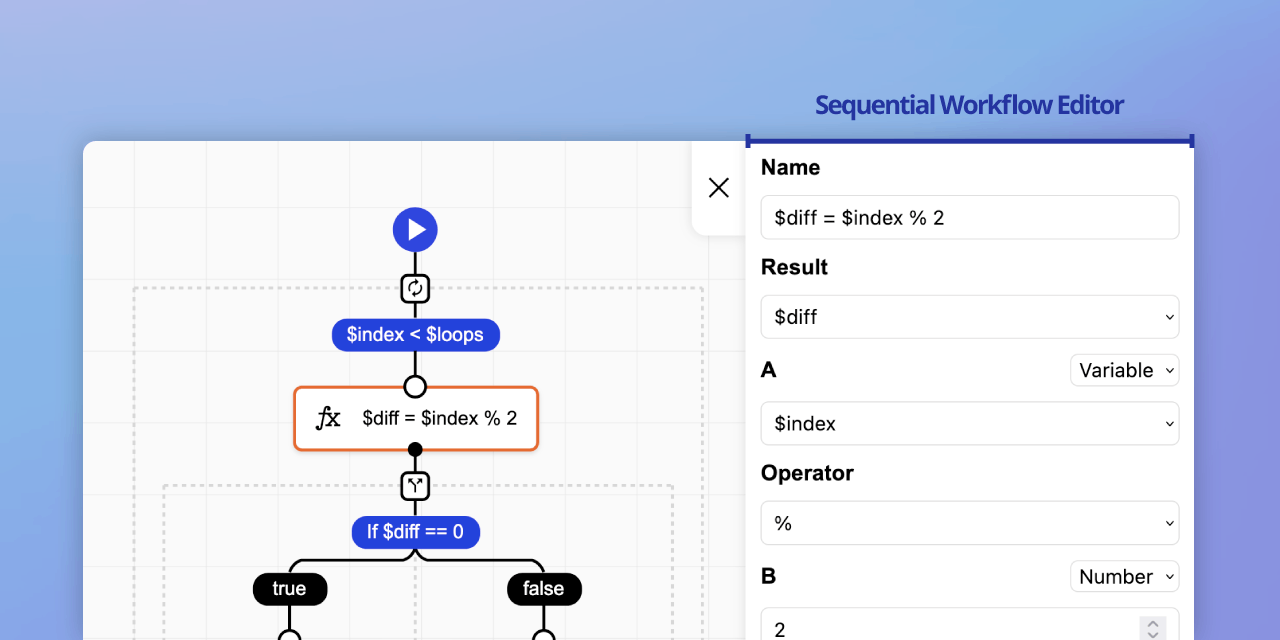
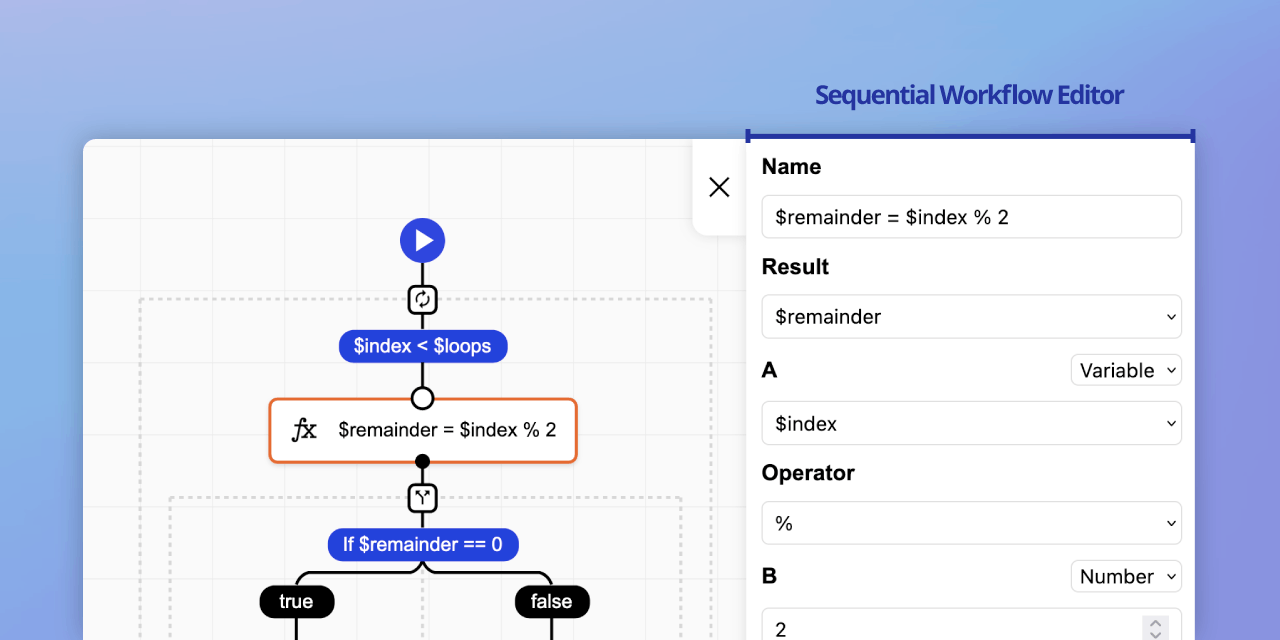
0.2.0. (#4)

diff --git a/model/src/value-models/dynamic/dynamic-value-model.ts b/model/src/value-models/dynamic/dynamic-value-model.ts
@@ -4,12 +4,12 @@ import { Dynamic } from '../../types';
 import { ValueModelContext } from '../../context';
 import { ModelActivator } from '../../activator';
 
-export interface DynamicValueModelConfiguration<TChoices extends ValueModelFactory[]> {
-	choices: TChoices;
+export interface DynamicValueModelConfiguration<TSubModels extends ValueModelFactory[]> {
+	models: TSubModels;
 }
 
-export type DynamicValueModel<TModels extends ValueModelFactory[] = ValueModelFactory[]> = ValueModel<
-	Dynamic<TValueOf<TModels>>,
+export type DynamicValueModel<TSubModels extends ValueModelFactory[] = ValueModelFactory[]> = ValueModel<
+	Dynamic<TValueOf<TSubModels>>,
 	DynamicValueModelConfiguration<ValueModelFactory[]>
 >;
 
@@ -23,21 +23,22 @@ export const dynamicValueModelId = 'dynamic';
 export function dynamicValueModel<TValueModelFactory extends ValueModelFactory[]>(
 	configuration: DynamicValueModelConfiguration<TValueModelFactory>
 ): ValueModelFactory<DynamicValueModel<TValueModelFactory>> {
-	if (configuration.choices.length < 1) {
+	if (configuration.models.length < 1) {
 		throw new Error('Dynamic value model must have at least one choice');
 	}
 
 	return (path: Path) => {
 		const valuePath = path.add('value');
-		const childModels = configuration.choices.map(modelFactory => modelFactory(valuePath));
+		const subModels = configuration.models.map(modelFactory => modelFactory(valuePath));
 
 		return {
 			id: dynamicValueModelId,
+			label: 'Dynamic value',
 			path,
 			configuration,
-			childModels,
+			subModels,
 			getDefaultValue(activator: ModelActivator): Dynamic<TValueOf<TValueModelFactory>> {
-				const model = childModels[0];
+				const model = subModels[0];
 				return {
 					modelId: model.id,
 					value: model.getDefaultValue(activator) as TValueOf<TValueModelFactory>
@@ -46,7 +47,7 @@ export function dynamicValueModel<TValueModelFactory extends ValueModelFactory[]
 			getVariableDefinitions: () => null,
 			validate(context: ValueModelContext<DynamicValueModel<TValueModelFactory>>): ValidationResult {
 				const value = context.getValue();
-				const model = childModels.find(m => m.id === value.modelId);
+				const model = subModels.find(m => m.id === value.modelId);
 				if (!model) {
 					throw new Error(`Cannot find model id: ${value.modelId}`);
 				}

diff --git a/editor/src/value-editors/dynamic/dynamic-value-editor.ts b/editor/src/value-editors/dynamic/dynamic-value-editor.ts
@@ -10,10 +10,10 @@ export function dynamicValueEditor(
 	context: ValueModelContext<DynamicValueModel>,
 	services: EditorServices
 ): ValueEditor<DynamicValueModel> {
-	if (!context.model.childModels) {
-		throw new Error('childModels is required');
+	if (!context.model.subModels) {
+		throw new Error('subModels is required');
 	}
-	const childModels = context.model.childModels;
+	const subModels = context.model.subModels;
 
 	function validate() {
 		if (editor) {
@@ -27,7 +27,7 @@ export function dynamicValueEditor(
 		}
 
 		const value = context.getValue();
-		const model = childModels.find(model => model.id === value.modelId);
+		const model = subModels.find(model => model.id === value.modelId);
 		if (!model || !model.id) {
 			throw new Error(`Model not found: ${value.modelId}`);
 		}
@@ -40,7 +40,7 @@ export function dynamicValueEditor(
 	}
 
 	function onTypeChanged() {
-		const newModel = childModels[childModelSelect.getSelectedIndex()];
+		const newModel = subModels[subModelSelect.getSelectedIndex()];
 		const defaultValue = {
 			modelId: newModel.id,
 			value: newModel.getDefaultValue(services.activator)
@@ -50,12 +50,12 @@ export function dynamicValueEditor(
 	}
 
 	const startValue = context.getValue();
-	const childModelSelect = selectComponent({
+	const subModelSelect = selectComponent({
 		size: 'small'
 	});
-	childModelSelect.setValues(context.model.childModels.map(model => model.id));
-	childModelSelect.selectIndex(context.model.childModels.findIndex(model => model.id === startValue.modelId));
-	childModelSelect.onSelected.subscribe(onTypeChanged);
+	subModelSelect.setValues(context.model.subModels.map(model => model.label));
+	subModelSelect.selectIndex(context.model.subModels.findIndex(model => model.id === startValue.modelId));
+	subModelSelect.onSelected.subscribe(onTypeChanged);
 
 	const placeholder = Html.element('div', {
 		class: 'swe-dynamic-placeholder'
@@ -67,7 +67,7 @@ export function dynamicValueEditor(
 
 	return {
 		view: container.view,
-		controlView: childModelSelect.view,
+		controlView: subModelSelect.view,
 		validate
 	};
 }

diff --git a/demos/webpack-app/src/playground/default-state.ts b/demos/webpack-app/src/playground/default-state.ts
@@ -11,7 +11,7 @@ const definition: MyDefinition = {
 	sequence: [
 		{
 			id: 'a282bc1908816678905a3c94049478aa',
-			name: 'index < loops',
+			name: '$index < $loops',
 			type: 'loop',
 			componentType: 'container',
 			properties: {
@@ -20,28 +20,28 @@ const definition: MyDefinition = {
 				to: { modelId: 'nullableVariable', value: { name: 'loops' } },
 				increment: { modelId: 'number', value: 1 },
 				indexVariable: { name: 'index', type: 'number' },
-				variables: { variables: [{ name: 'diff', type: 'number' }] }
+				variables: { variables: [{ name: 'remainder', type: 'number' }] }
 			},
 			sequence: [
 				{
 					id: '32529a3fbef39d5e480df8454164edae',
-					name: 'diff = index % 2',
+					name: '$remainder = $index % 2',
 					type: 'calculate',
 					componentType: 'task',
 					properties: {
 						a: { modelId: 'nullableVariable', value: { name: 'index' } },
 						operator: '%',
 						b: { modelId: 'number', value: 2 },
-						result: { name: 'diff' }
+						result: { name: 'remainder' }
 					}
 				},
 				{
 					id: 'f2f35f162f009e7683cf31c24a1e9589',
-					name: 'If diff == 0',
+					name: 'If $remainder == 0',
 					type: 'if',
 					componentType: 'switch',
 					properties: {
-						a: { modelId: 'nullableVariable', value: { name: 'diff' } },
+						a: { modelId: 'nullableVariable', value: { name: 'remainder' } },
 						operator: '=',
 						b: { modelId: 'number', value: 0 }
 					},

diff --git a/editor/src/value-editors/nullable-variable/nullable-variable-value-editor.ts b/editor/src/value-editors/nullable-variable/nullable-variable-value-editor.ts
@@ -4,6 +4,7 @@ import { valueEditorContainerComponent } from '../../components/value-editor-con
 import { validationErrorComponent } from '../../components/validation-error-component';
 import { rowComponent } from '../../components/row-component';
 import { selectComponent } from '../../components/select-component';
+import { formatVariableName } from '../../core/variable-name-formatter';
 
 export const nullableVariableValueEditorId = 'nullableVariable';
 
@@ -31,12 +32,7 @@ export function nullableVariableValueEditor(
 	const select = selectComponent({
 		stretched: true
 	});
-	select.setValues([
-		'- Select variable -',
-		...variables.map(variable => {
-			return variable.name;
-		})
-	]);
+	select.setValues(['- Select variable -', ...variables.map(variable => formatVariableName(variable.name))]);
 	if (startValue) {
 		select.selectIndex(variables.findIndex(variable => variable.name === startValue.name) + 1);
 	} else {

diff --git a/demos/webpack-app/src/playground/model/calculate-step-model.ts b/demos/webpack-app/src/playground/model/calculate-step-model.ts
@@ -23,7 +23,7 @@ export interface CalculateStep extends Step {
 
 export const calculateStepModel = createStepModel<CalculateStep>('calculate', 'task', step => {
 	const val = dynamicValueModel({
-		choices: [
+		models: [
 			numberValueModel({}),
 			nullableVariableValueModel({
 				isRequired: true,
@@ -31,6 +31,13 @@ export const calculateStepModel = createStepModel<CalculateStep>('calculate', 't
 			})
 		]
 	});
+
+	step.property('result').value(
+		nullableVariableValueModel({
+			variableType: ValueKnownType.number,
+			isRequired: true
+		})
+	);
 
 	step.property('a').value(val).label('A');
 
@@ -41,11 +48,4 @@ export const calculateStepModel = createStepModel<CalculateStep>('calculate', 't
 	);
 
 	step.property('b').value(val).label('B');
-
-	step.property('result').value(
-		nullableVariableValueModel({
-			variableType: ValueKnownType.number,
-			isRequired: true
-		})
-	);
 });

diff --git a/editor/src/value-editors/any-variables/any-variable-item-component.ts b/editor/src/value-editors/any-variables/any-variable-item-component.ts
@@ -4,6 +4,7 @@ import { validationErrorComponent } from '../../components/validation-error-comp
 import { Component } from '../../components/component';
 import { buttonComponent } from '../../components/button-component';
 import { rowComponent } from '../../components/row-component';
+import { formatVariableName } from '../../core/variable-name-formatter';
 
 export interface AnyVariableItemComponent extends Component {
 	onDeleteClicked: SimpleEvent<void>;
@@ -20,7 +21,7 @@ export function anyVariableItemComponent(variable: AnyVariable): AnyVariableItem
 	const view = Html.element('div');
 
 	const name = Html.element('span');
-	name.innerText = `${variable.name} (${variable.type})`;
+	name.innerText = `${formatVariableName(variable.name)} (${variable.type})`;
 
 	const deleteButton = buttonComponent('Delete');
 	deleteButton.onClick.subscribe(() => onDeleteClicked.forward());

diff --git a/editor/src/value-editors/any-variables/any-variable-selector-component.ts b/editor/src/value-editors/any-variables/any-variable-selector-component.ts
@@ -10,6 +10,7 @@ import { selectComponent } from '../../components/select-component';
 import { Component } from '../../components/component';
 import { rowComponent } from '../../components/row-component';
 import { buttonComponent } from '../../components/button-component';
+import { formatVariableName } from '../../core/variable-name-formatter';
 
 export interface AnyVariableSelectorComponent extends Component {
 	onAdded: SimpleEvent<AnyVariable>;
@@ -27,7 +28,7 @@ export function anyVariableSelectorComponent(context: ValueModelContext<AnyVaria
 
 	function reloadVariableSelector() {
 		variables = context.getVariables(getSelectedValueType());
-		const variableNames = variables.map(variable => variable.name);
+		const variableNames = variables.map(variable => formatVariableName(variable.name));
 		variableSelect.setValues(['-', ...variableNames]);
 	}
 

diff --git a/demos/webpack-app/src/playground/machine/activities/log-activity.ts b/demos/webpack-app/src/playground/machine/activities/log-activity.ts
@@ -1,6 +1,7 @@
 import { createAtomActivity } from 'sequential-workflow-machine';
 import { GlobalState } from '../global-state';
 import { LogStep } from '../../model/log-step-model';
+import { formatVariableName } from 'sequential-workflow-editor';
 
 export const logActivity = createAtomActivity<LogStep, GlobalState>({
 	init: () => ({}),
@@ -11,7 +12,8 @@ export const logActivity = createAtomActivity<LogStep, GlobalState>({
 		for (const variable of step.properties.variables.variables) {
 			const value = $variables.isSet(variable.name) ? $variables.read(variable.name) || '<empty>' : '<not set>';
 			const type = typeof value;
-			message += `\n${variable.name}=${value} (${type})`;
+			const name = formatVariableName(variable.name);
+			message += `\n${name}=${value} (${type})`;
 		}
 
 		$logger.log(message);

diff --git a/demos/webpack-app/src/playground/model/loop-step-model.ts b/demos/webpack-app/src/playground/model/loop-step-model.ts
@@ -32,7 +32,7 @@ export const loopStepModel = createSequentialStepModel('loop', 'container', step
 		.label('From')
 		.value(
 			dynamicValueModel({
-				choices: [
+				models: [
 					numberValueModel({}),
 					nullableVariableValueModel({
 						isRequired: true,
@@ -54,7 +54,7 @@ export const loopStepModel = createSequentialStepModel('loop', 'container', step
 		.label('To')
 		.value(
 			dynamicValueModel({
-				choices: [
+				models: [
 					numberValueModel({}),
 					nullableVariableValueModel({
 						isRequired: true,
@@ -68,7 +68,7 @@ export const loopStepModel = createSequentialStepModel('loop', 'container', step
 		.label('Increment')
 		.value(
 			dynamicValueModel({
-				choices: [
+				models: [
 					numberValueModel({
 						defaultValue: 1
 					}),

diff --git a/model/src/model.ts b/model/src/model.ts
@@ -42,9 +42,10 @@ export type ValueModelFactoryOfValue<TValue extends PropertyValue = PropertyValu
 
 export interface ValueModel<TValue extends PropertyValue = PropertyValue, TConfiguration extends object = object> {
 	id: ValueModelId;
+	label: string;
 	path: Path;
 	configuration: TConfiguration;
-	childModels?: ValueModel[];
+	subModels?: ValueModel[];
 	getDefaultValue(activator: ModelActivator): TValue;
 	getVariableDefinitions(context: ValueModelContext<ValueModel<TValue, TConfiguration>>): VariableDefinition[] | null;
 	validate(context: ValueModelContext<ValueModel<TValue, TConfiguration>>): ValidationResult;

diff --git a/model/src/value-models/branches/branches-value-model.ts b/model/src/value-models/branches/branches-value-model.ts
@@ -21,6 +21,7 @@ export function branchesValueModel<TConfiguration extends BranchesValueModelConf
 ): ValueModelFactory<BranchesValueModel<BranchesOf<TConfiguration>>> {
 	return (path: Path) => ({
 		id: branchesValueModelId,
+		label: 'Branches',
 		path,
 		configuration,
 		getDefaultValue(activator: ModelActivator): BranchesOf<TConfiguration> {

diff --git a/model/src/value-models/any-variable/any-variables-value-model.ts b/model/src/value-models/any-variable/any-variables-value-model.ts
@@ -14,6 +14,7 @@ export const anyVariablesValueModelId = 'anyVariables';
 export function anyVariablesValueModel(configuration: AnyVariablesValueModelConfiguration): ValueModelFactory<AnyVariablesValueModel> {
 	return (path: Path) => ({
 		id: anyVariablesValueModelId,
+		label: 'Variables',
 		path,
 		configuration,
 		getDefaultValue() {
